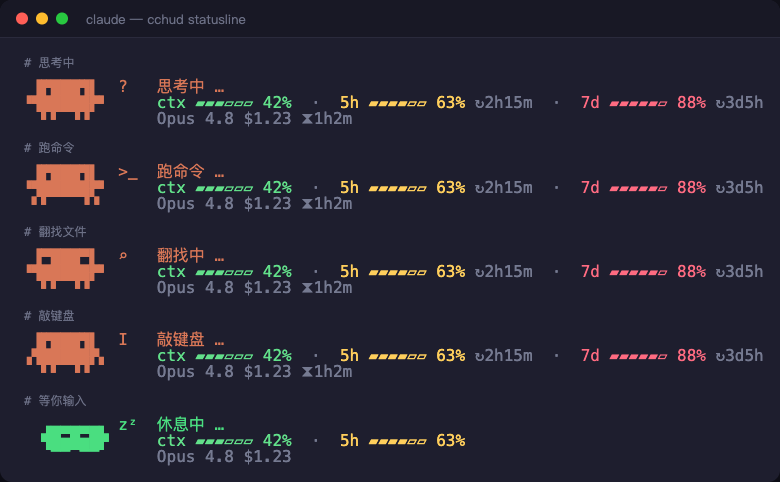
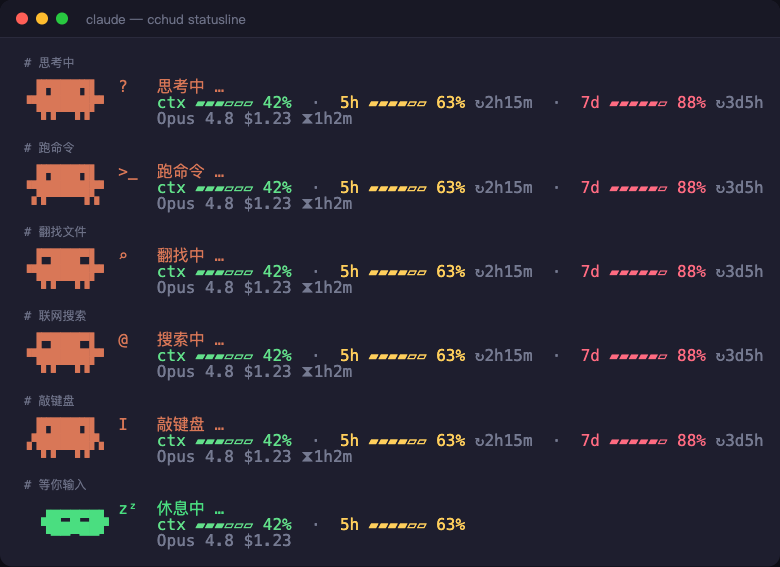
feat: 新增「搜索中」态(WebSearch/WebFetch) + 预览图更新为六态
- toolState 将 WebSearch/WebFetch 归入新 web 态(搜索中 @),复用 read 睁眼造型,仅 badge/文案区分
- config.js 新增 webLabel 可配文案
- preview.js/preview.png 更新为六态;README 效果说明与 badge 列表同步

diff --git a/hud.js b/hud.js
@@ -65,9 +65,10 @@ process.stdin.on("end", () => {
   const IDLE_AFTER_MS = 60000; // 真实用户输入悬挂超过此时长仍无 assistant 跟进 → 判 idle(秒取消/久挂的防卡死兜底)
   const toolState = (name) => {
     if (name === "Bash") return "bash";
+    if (/^(WebSearch|WebFetch)$/.test(name)) return "web"; // 联网搜索 / 抓网页
     if (/^(Read|Grep|Glob|LS|NotebookRead)$/.test(name)) return "read";
     if (/^(Edit|Write|MultiEdit|NotebookEdit|Update)$/.test(name)) return "edit";
-    return "think"; // 其他工具(TodoWrite / Task / WebFetch…)归思考 / 工作
+    return "think"; // 其他工具(TodoWrite / Task / Skill / mcp__*…)归思考 / 工作
   };
   function inferState(tp) {
     const fake = process.env.HUD_FAKE_STATE;
@@ -146,6 +147,7 @@ process.stdin.on("end", () => {
     think: { c: O, label: CFG.busyLabel, badge: "?", rows: [" ▐▛███▜▌", "▝▜█████▛▘", "  ▘▘ ▝▝"] },
     bash: { c: O, label: CFG.bashLabel, badge: ">_", rows: [" ▐▛███▜▌", "▝▜█████▛▘", " ▘▘   ▝▝"] },
     read: { c: O, label: CFG.readLabel, badge: "⌕", rows: [" ▐▀███▀▌", "▝▜█████▛▘", "  ▘▘ ▝▝"] },
+    web: { c: O, label: CFG.webLabel, badge: "@", rows: [" ▐▀███▀▌", "▝▜█████▛▘", "  ▘▘ ▝▝"] }, // 复用 read 睁眼造型(同为"查找"),仅 badge/文案区分
     edit: { c: O, label: CFG.editLabel, badge: "I", rows: [" ▐▛███▜▌", "▗▜█████▛▖", "  ▘▘ ▝▝"] },
   };
   const st = STATES[state] || STATES.think;

diff --git a/config.js b/config.js
@@ -16,6 +16,7 @@ const DEFAULTS = {
   busyLabel: "思考中 …", // 状态栏「思考 / 忙碌」文本（三字）
   bashLabel: "跑命令 …", // 状态栏「执行 Bash」文本
   readLabel: "翻找中 …", // 状态栏「读取 / 检索文件」文本
+  webLabel: "搜索中 …", // 状态栏「联网搜索 / 抓取网页」文本
   editLabel: "敲键盘 …", // 状态栏「编辑 / 写文件」文本
   idleLabel: "休息中 …", // 状态栏「等你」文本（三字；zᶻ 睡眠标记画在小兽头顶,见 hud.js）
   doneTitle: "{name} · 等你了", // 通知：答完（Stop）

diff --git a/tools/preview.js b/tools/preview.js
@@ -70,6 +70,7 @@ const VARIANTS = [
   ["think", "思考中", busyJson],
   ["bash", "跑命令", busyJson],
   ["read", "翻找文件", busyJson],
+  ["web", "联网搜索", busyJson],
   ["edit", "敲键盘", busyJson],
   ["idle", "等你输入", idleJson],
 ];

diff --git a/README.md b/README.md
@@ -8,11 +8,11 @@
 
 ![cchud 状态栏预览](preview.png)
 
-上图为同一脚本在五种状态下的实际输出：**思考中 / 跑命令 / 翻找文件 / 敲键盘**（橙色，小兽站立，头顶 badge 区分在干什么）与**等你输入**（绿色，小兽蜷缩低头打盹）。
+上图为同一脚本在六种状态下的实际输出：**思考中 / 跑命令 / 翻找文件 / 联网搜索 / 敲键盘**（橙色，小兽站立，头顶 badge 区分在干什么）与**等你输入**（绿色，小兽蜷缩低头打盹）。
 
 显示内容：
 
-- **小兽姿势 + 颜色 + 头顶 badge** —— 通过读取会话日志最后一个有意义事件推断当前在干什么（思考 `?` / 跑命令 `>_` / 翻找 `⌕` / 敲键盘 `I` / 等你 `zᶻ`），比看文件 mtime 更准。详见[状态推断的原理与限制](#状态推断的原理与限制)。
+- **小兽姿势 + 颜色 + 头顶 badge** —— 通过读取会话日志最后一个有意义事件推断当前在干什么（思考 `?` / 跑命令 `>_` / 翻找 `⌕` / 搜索 `@` / 敲键盘 `I` / 等你 `zᶻ`），比看文件 mtime 更准。详见[状态推断的原理与限制](#状态推断的原理与限制)。
 - **ctx** —— 上下文窗口占用百分比。
 - **5h / 7d** —— 5 小时 / 7 天用量额度，带重置倒计时（`↻`）。
 - **进度条颜色** —— 绿(<60%) / 黄(60-85%) / 红(≥85%)。
@@ -118,7 +118,7 @@ git clone https://github.com/x-wink/cchud.git
 
 小兽的姿态全部通过**读取会话日志（transcript）的最后一个有意义事件**推断——而非看文件 mtime：
 
-- assistant 调 `Bash` → 跑命令 `>_`；调 `Read/Grep/Glob` 等 → 翻找中 `⌕`；调 `Edit/Write` 等 → 敲键盘 `I`；仅思考或调其他工具 → 思考中 `?`；给出完整文字回复 → 休息中 `zᶻ`。
+- assistant 调 `Bash` → 跑命令 `>_`；调 `Read/Grep/Glob` 等 → 翻找中 `⌕`；调 `WebSearch/WebFetch` → 搜索中 `@`；调 `Edit/Write` 等 → 敲键盘 `I`；仅思考或调其他工具 → 思考中 `?`；给出完整文字回复 → 休息中 `zᶻ`。
 - 工具结果（`tool_result`）会被跳过、回溯到对应的工具调用判断姿态；中断标记 `[Request interrupted by user…]` 会被识别为「休息中」。
 
 ### 建议开启定期刷新（`refreshInterval`）